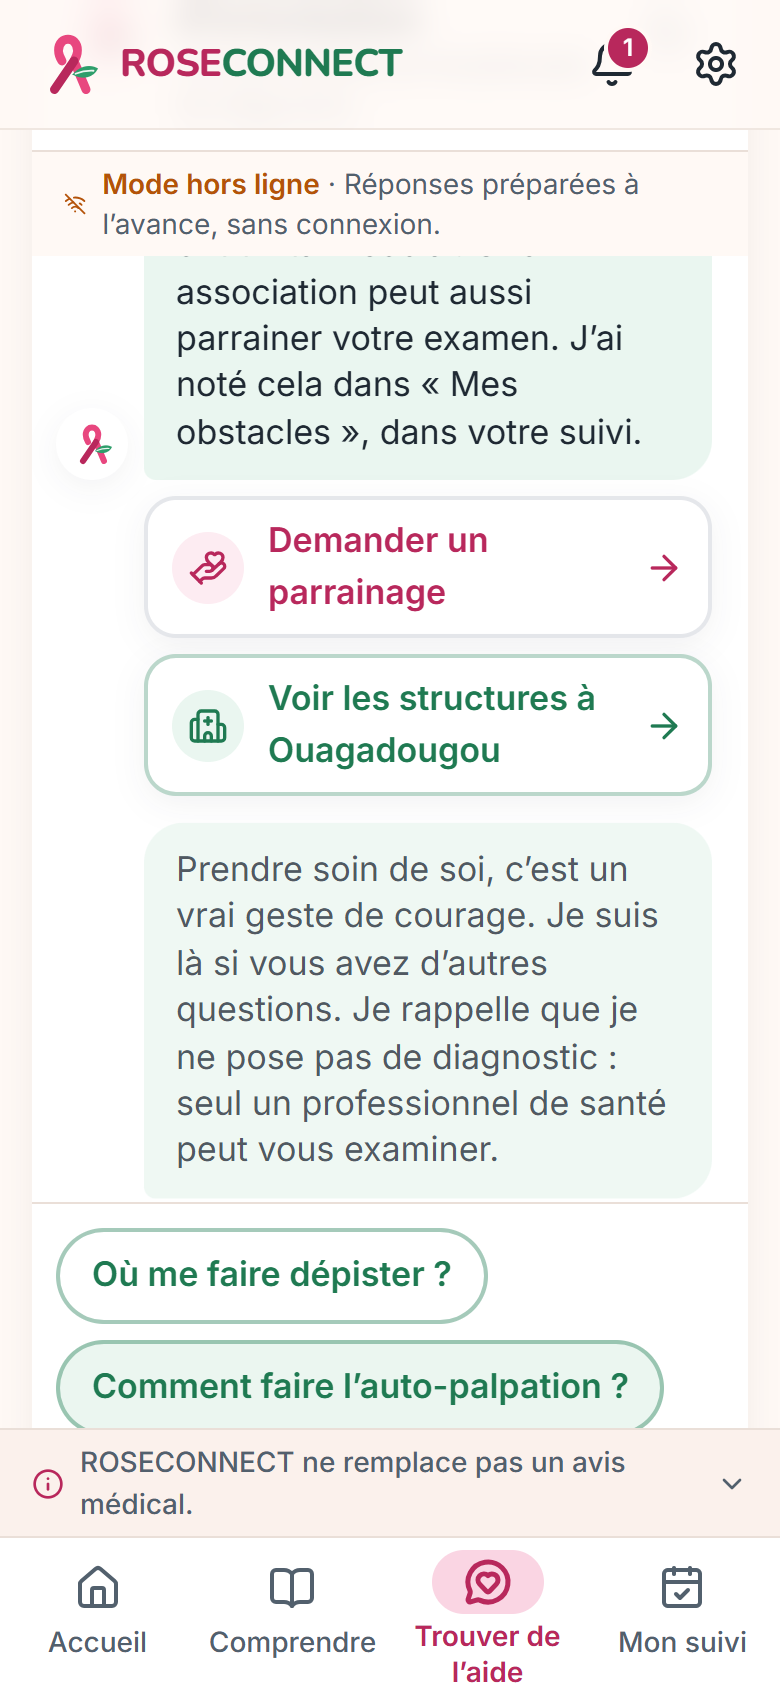
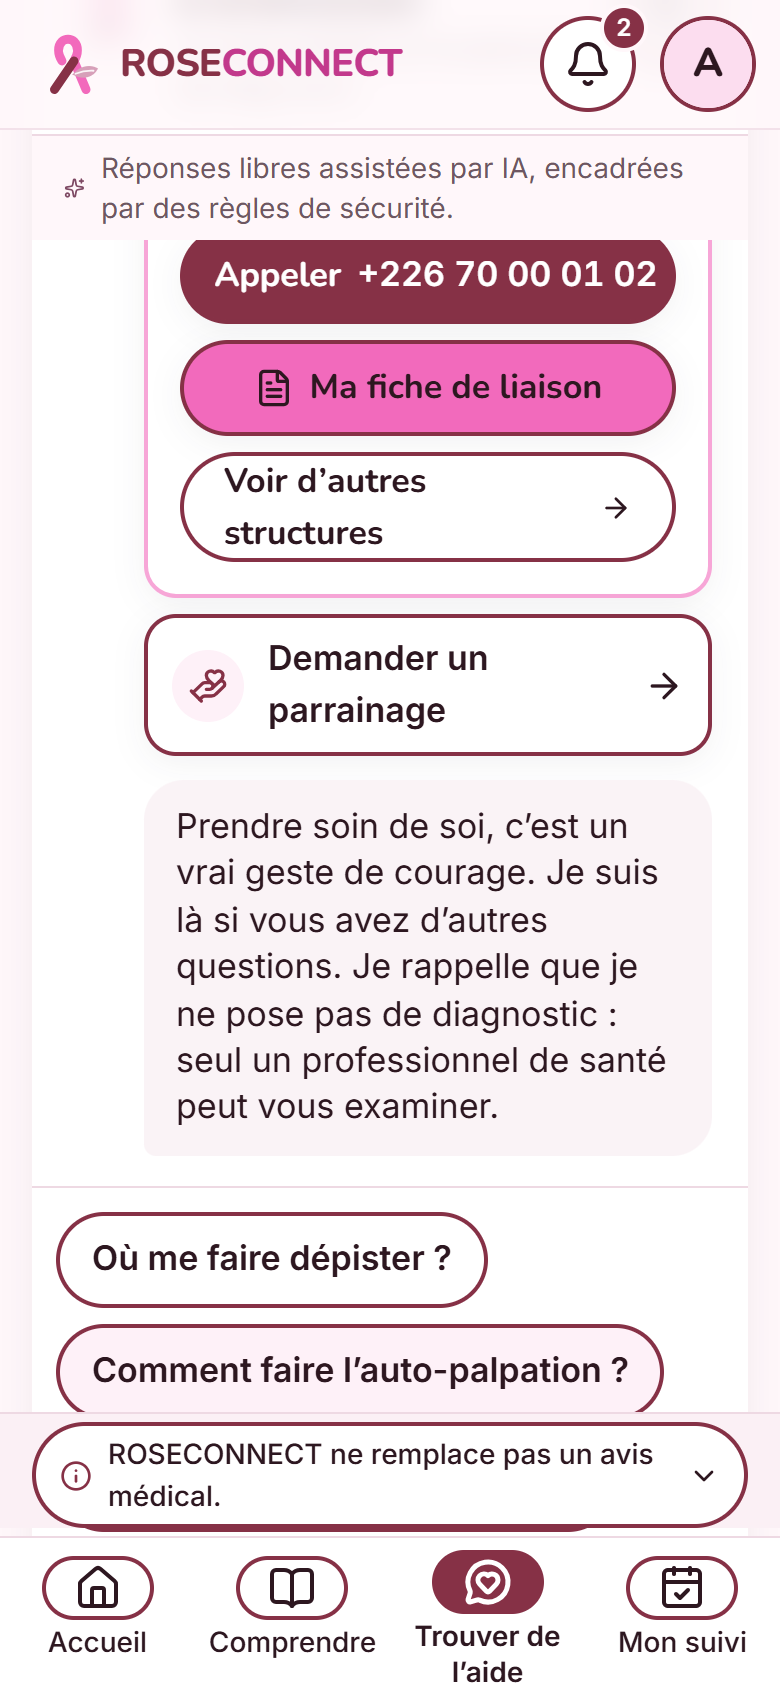
Captures d'écran à jour (couleurs, connexion, fiche, impact)
- Script de captures : connexion avec le compte démo, parcours de l'assistante
  sans question d'âge, fermeture des toasts avant chaque capture.
- Nouvelles captures : connexion, fiche de liaison, tableau d'impact.
- Galerie du README mise à jour.

diff --git a/README.md b/README.md
@@ -5,9 +5,13 @@ Application web responsive (mobile d’abord, installable en PWA) de **sensibili
 > ROSECONNECT ne remplace pas un avis médical. L’application informe et oriente. Elle ne pose **jamais** de diagnostic.
 > Toutes les structures de santé et tous les contacts sont **fictifs** (données de démonstration).
 
-| Accueil | Comprendre | Chatbot | Structures | Mon suivi |
+| Connexion | Accueil | Comprendre | Assistante | Structures |
 | --- | --- | --- | --- | --- |
-| ![Accueil](docs/screenshots/01-accueil.png) | ![Comprendre](docs/screenshots/02-comprendre.png) | ![Chatbot](docs/screenshots/03-chatbot.png) | ![Structures](docs/screenshots/04-structures.png) | ![Mon suivi](docs/screenshots/05-suivi.png) |
+| ![Connexion](docs/screenshots/00-connexion.png) | ![Accueil](docs/screenshots/01-accueil.png) | ![Comprendre](docs/screenshots/02-comprendre.png) | ![Assistante](docs/screenshots/03-chatbot.png) | ![Structures](docs/screenshots/04-structures.png) |
+
+| Mon suivi | Réglages | Fiche de liaison | Tableau d’impact |
+| --- | --- | --- | --- |
+| ![Mon suivi](docs/screenshots/05-suivi.png) | ![Réglages](docs/screenshots/06-reglages.png) | ![Fiche de liaison](docs/screenshots/07-fiche-liaison.png) | ![Tableau d’impact](docs/screenshots/08-impact.png) |
 
 ## Fonctionnalités
 
@@ -116,7 +120,7 @@ scripts/          check-chat.ts, generate-icons.mjs, screenshots.mjs
 
 ```bash
 npm run build && npm run preview          # dans un premier terminal
-node scripts/screenshots.mjs              # captures → docs/screenshots (utilise Chrome ou Edge installé)
+node scripts/screenshots.mjs              # captures (compte démo) → docs/screenshots (utilise Chrome ou Edge installé)
 node scripts/generate-icons.mjs           # régénère les icônes PWA
 ```
 
